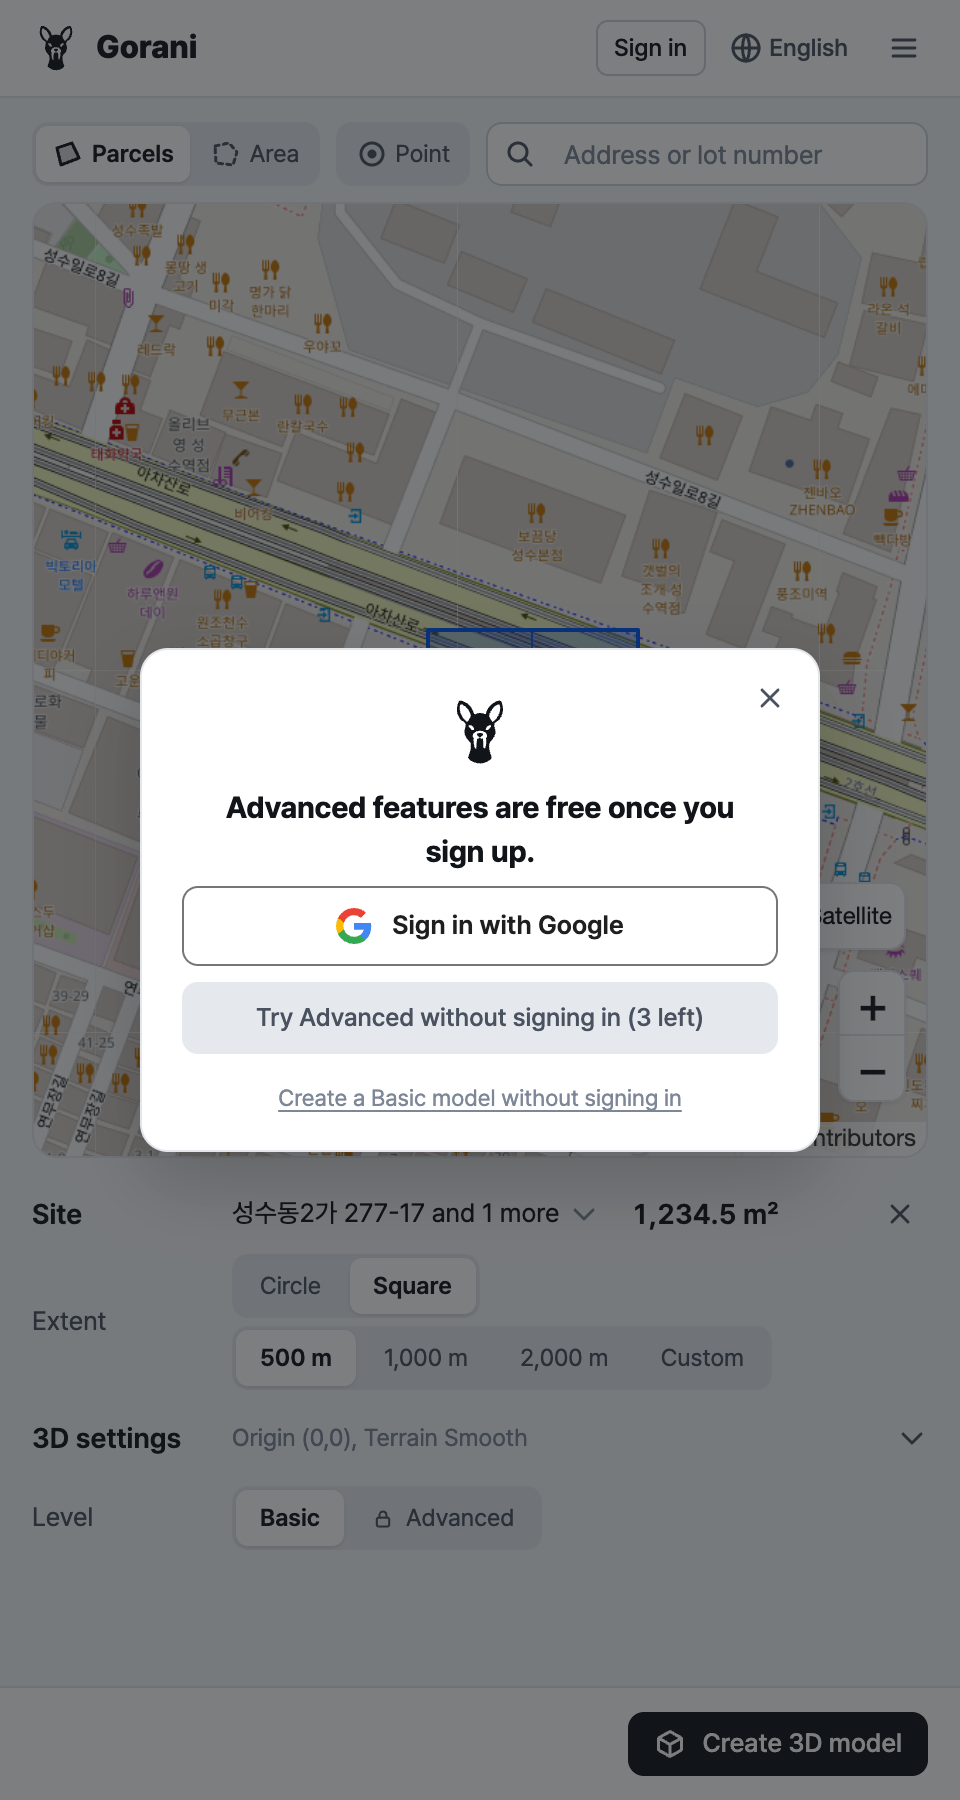
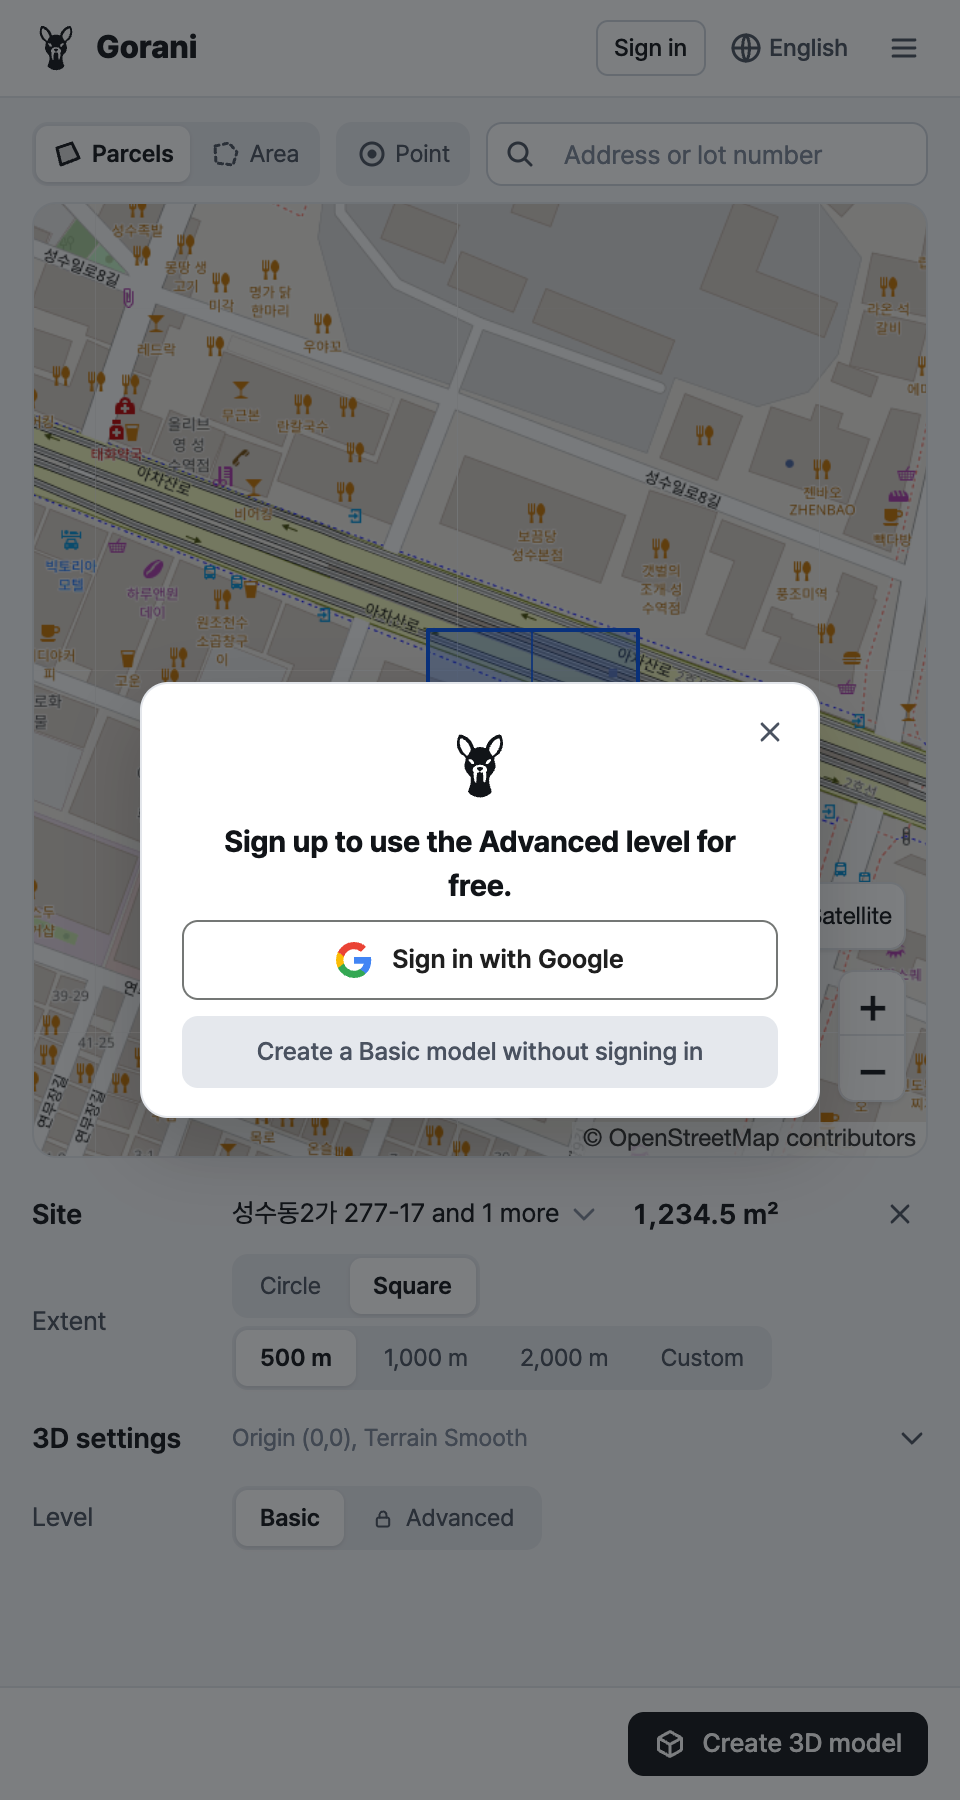
처음 만들 때 창: '회원가입 후 고급 수준을 무료로 이용할 수 있습니다.' + [Google 계정으로 로그인] / [로그인 없이 기본으로 만들기] — 써 보기는 '고급'을 고를 때 창에만

Changed region(s): [[0.125, 0.3422, 0.875, 0.6533]]

diff --git a/scripts/site_ui.html b/scripts/site_ui.html
@@ -144,8 +144,6 @@ html:lang(zh-Hans) body { font-family: -apple-system, "PingFang SC", "Microsoft 
 #acct_modal .gets .ico { width: 12px; height: 12px; color: var(--accent); flex: none; }
 #acct_modal .alt { width: 100%; height: 36px; justify-content: center; margin-top: 8px; border-color: transparent; background: var(--press); color: var(--ink-2); font-size: 12.5px; font-weight: 500; }   /* 둘째 — 옅은 회색, 구글 단추보다 낮게 */
 #acct_modal .alt:hover:not(:disabled) { background: var(--hover); color: var(--ink); }
-#acct_modal .link-btn { display: block; margin: 10px auto 0; padding: 2px 4px; border: 0; background: none; color: var(--ink-3); font: inherit; font-size: 11.5px; text-decoration: underline; text-underline-offset: 2px; cursor: pointer; }   /* 셋째 — 작은 글씨 */
-#acct_modal .link-btn:hover { color: var(--ink); }
 #acct_modal .left-note { margin: 10px 0 0; color: var(--ink-3); font-size: 11px; line-height: 16px; }
 #acct_modal .spin { width: 28px; height: 28px; margin: 4px auto 14px; border: 2.5px solid var(--line); border-top-color: var(--accent); border-radius: 50%; animation: acct-spin .9s linear infinite; }
 /* Google 로그인 단추 — Google 브랜드 지침의 밝은·어두운 꼴(흰 바탕·회색 테두리·G 로고) */
@@ -2592,8 +2590,8 @@ ACCT = {
     else if (kind === "plans") html = x + mark + title(free) +
       '<ul class="gets">' + advancedKeys().map(function (k) { return "<li>" + ico("check") + "<span>" + esc(tr(DETAIL_NAMES[k] || k)) + "</span></li>"; }).join("") + "</ul>" + google +
       (left ? trial("acct_trial") : used);
-    else if (build) html = x + mark + title(free) + google + (left ? trial("acct_trial_build") : "") +   // 처음 만들 때 — 한도는 단추의 '(n회 남음)'으로(2026-11-18 사용자)
-      '<button type="button" class="link-btn" data-act="acct_skip">' + tr("로그인 없이 기본으로 만들기") + "</button>";
+    else if (build) html = x + mark + title(tr("회원가입 후 고급 수준을 무료로 이용할 수 있습니다.")) + google +   // 처음 만들 때(기본으로 만들기) — 써 보기는 '고급'을 고를 때 창에만(2026-11-18 사용자)
+      '<button type="button" class="btn alt" data-act="acct_skip">' + tr("로그인 없이 기본으로 만들기") + "</button>";
     else html = x + mark + title(tr("Gorani 로그인")) + sub(free) + google;
     m.innerHTML = '<div class="dlg">' + html + "</div>";
     m.hidden = false;
@@ -2650,9 +2648,6 @@ Object.assign(ACTIONS, {
   acct_login: function () { ACCT.login(); },
   acct_close: function () { ACCT.dismiss(); },
   acct_skip: function () { ACCT.pending = null; ACCT.close(); startGenerate(true); },
-  acct_trial_build: function () {   // 처음 만들 때 '고급 기능 써 보기' — 이번 모델을 고급으로, 1회를 쓴다
-    ACCT.trial = true; ACCT.pending = null; ACCT.close(); state.options.detail_level = "advanced"; track("account_trial", "first"); startGenerate(true);
-  },
   acct_trial: function () {
     ACCT.trial = true; ACCT.pending = null; ACCT.close(); state.options.detail_level = "advanced"; renderTray(); track("account_trial", ACCT.left("detail_advanced"));
   },
